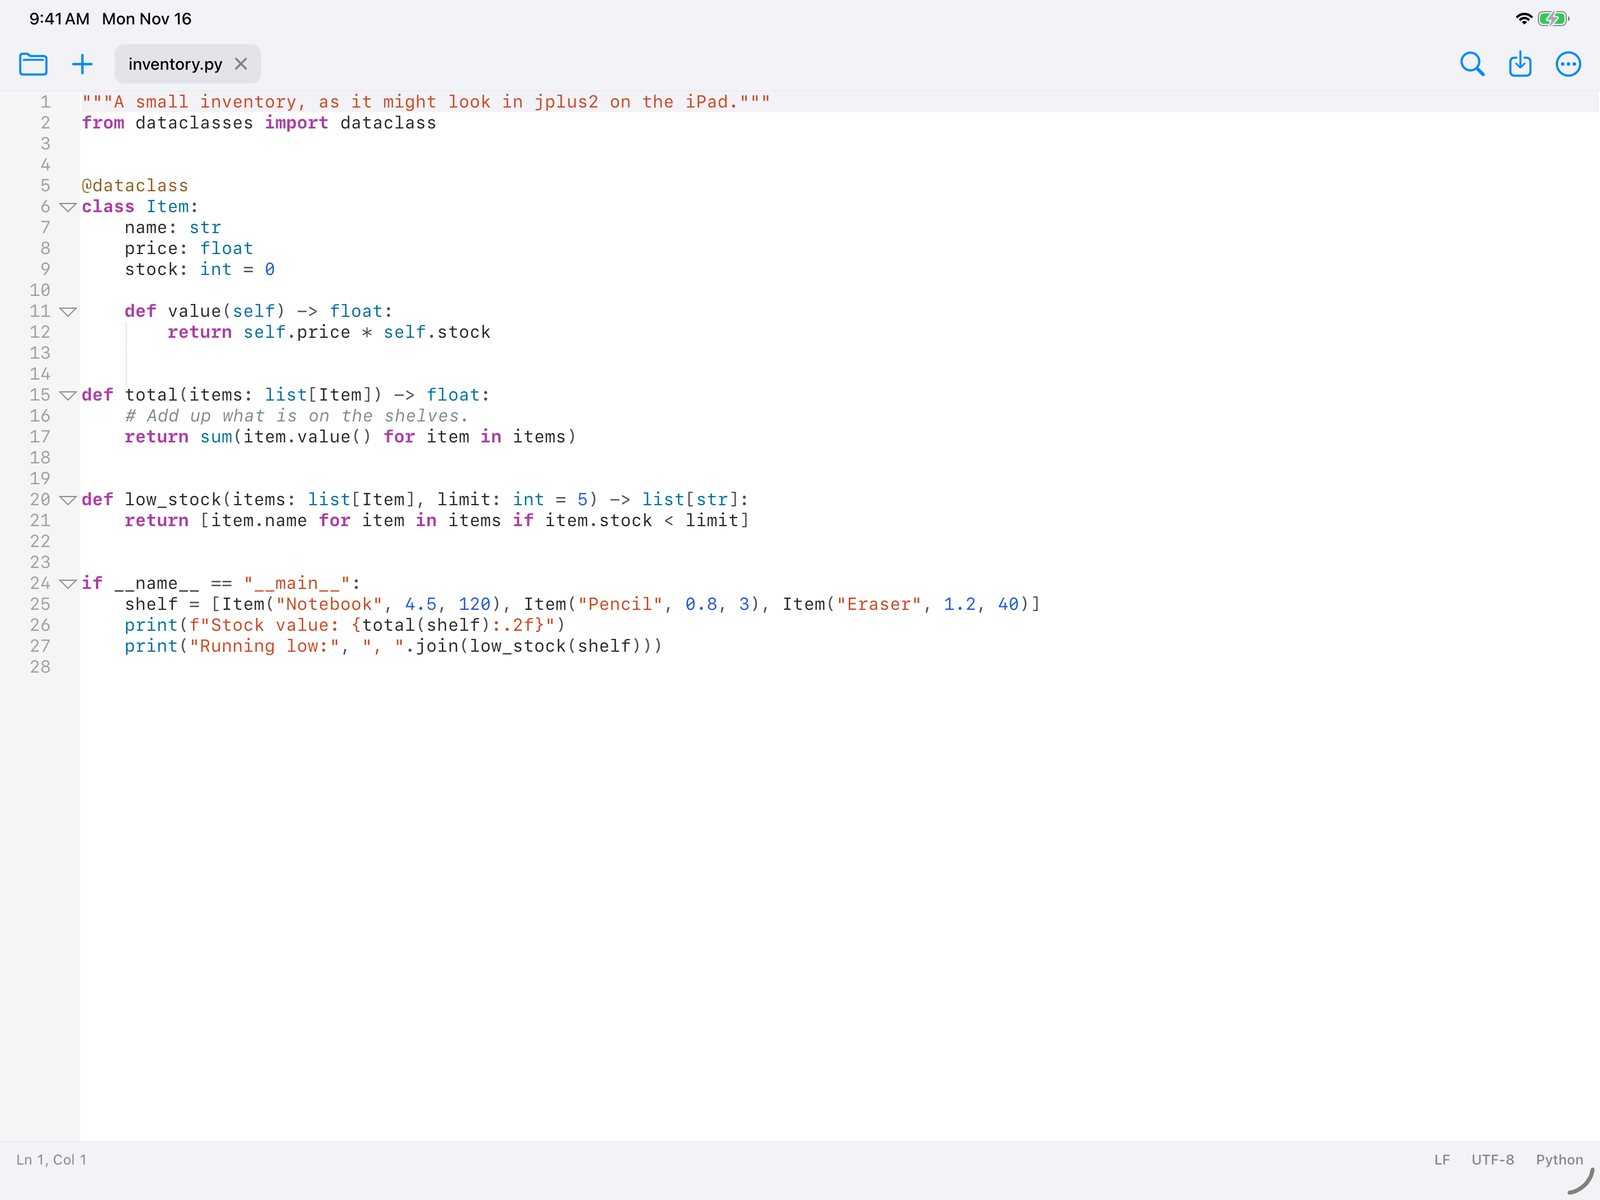
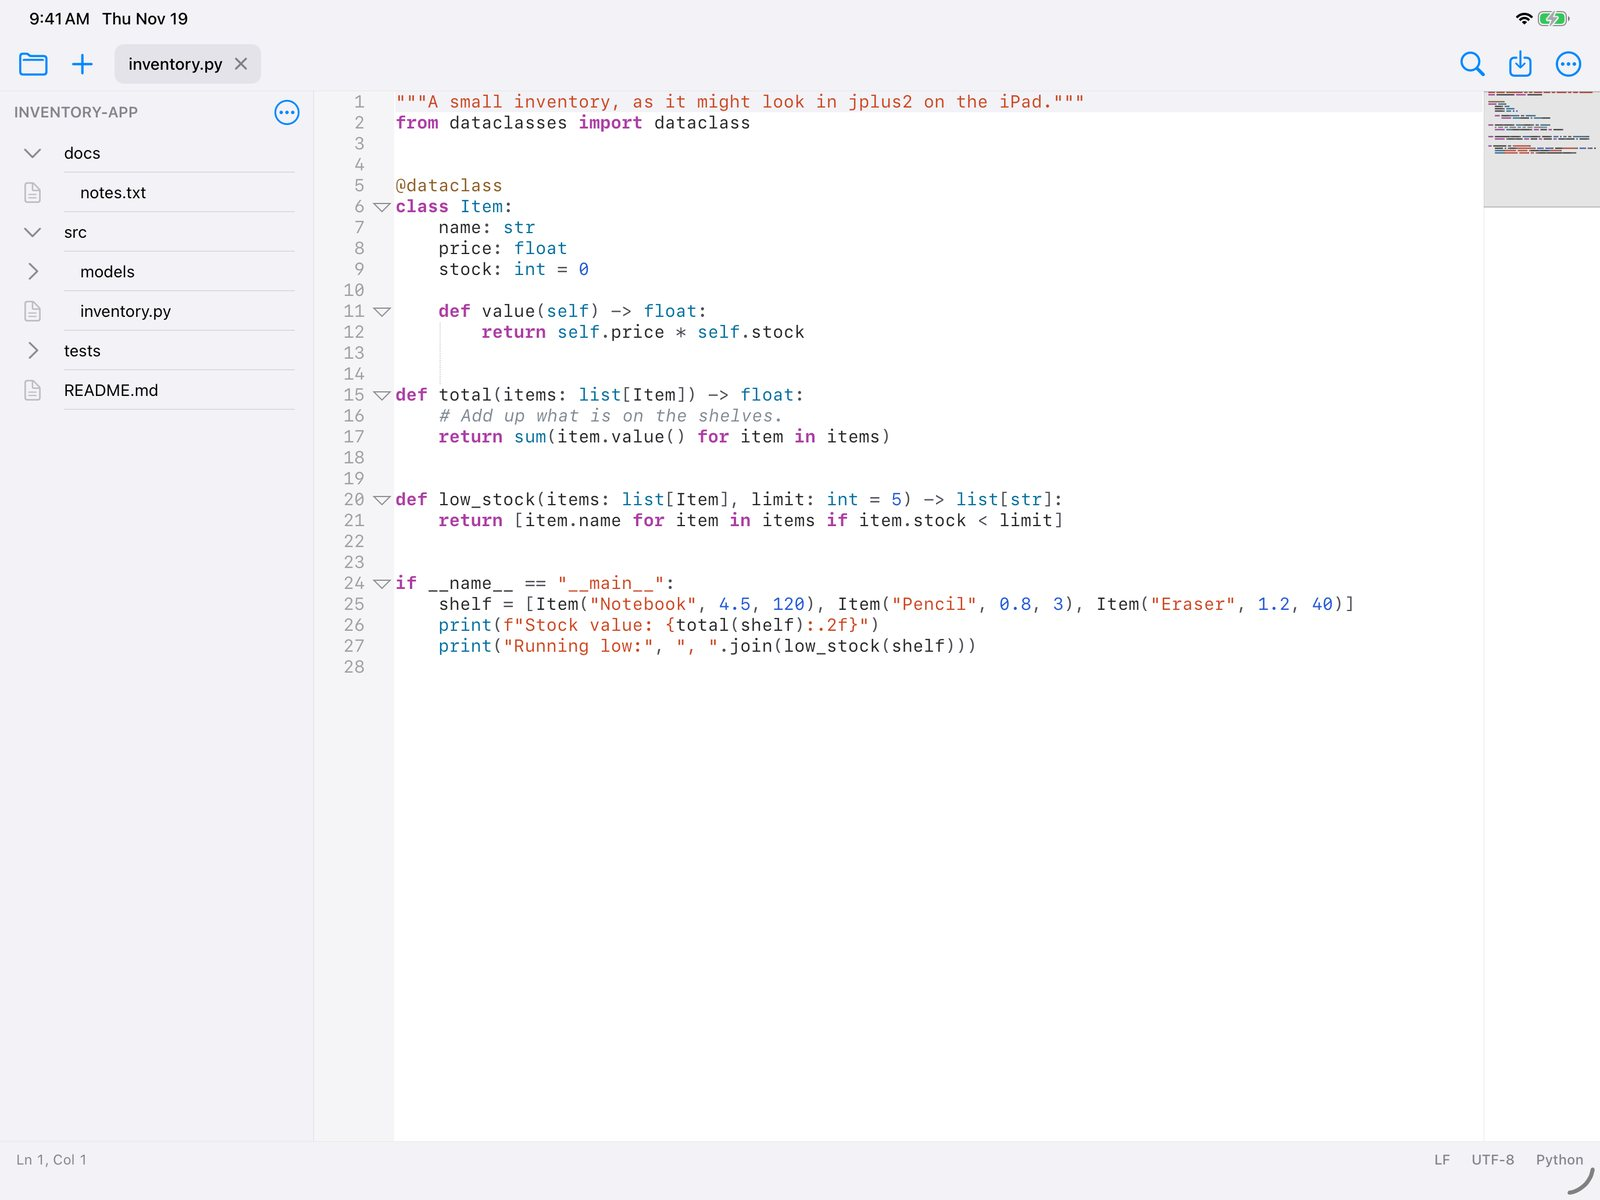
iPadOS section: Explorer, Go to File, minimap, find in all tabs, column editing and saved macros now in the app; new landscape screenshots with the Explorer

diff --git a/es/index.html b/es/index.html
@@ -239,16 +239,16 @@
     <p class="lead reveal">La próxima versión lleva jplus2 al iPad: el motor de edición de jplus2 Lite, hecho de forma nativa para el tacto, el teclado y la app Archivos. Estas son las funciones que tendrá.</p>
     <p class="reveal"><span class="soon-badge">Próximamente</span></p>
     <p class="note reveal">Planeado para el próximo lanzamiento. Los detalles pueden cambiar antes de publicarlo.</p>
-    <div class="ipad-shot reveal"><picture><source srcset="../img/ipad-dark.webp" type="image/webp" media="(prefers-color-scheme: dark)"><source srcset="../img/ipad-dark.jpg" media="(prefers-color-scheme: dark)"><source srcset="../img/ipad-light.webp" type="image/webp"><img class="shot " src="../img/ipad-light.jpg" alt="jplus2 en iPad en horizontal: un archivo de Python con colores de sintaxis abierto en una pestaña, con los botones Buscar, Guardar y Más en la barra." width="1600" height="1200" loading="lazy" decoding="async"></picture></div>
+    <div class="ipad-shot reveal"><picture><source srcset="../img/ipad-dark.webp" type="image/webp" media="(prefers-color-scheme: dark)"><source srcset="../img/ipad-dark.jpg" media="(prefers-color-scheme: dark)"><source srcset="../img/ipad-light.webp" type="image/webp"><img class="shot " src="../img/ipad-light.jpg" alt="jplus2 en iPad en horizontal: el explorador lateral con las carpetas de un proyecto, un archivo de Python con colores de sintaxis en una pestaña y el minimapa a la derecha." width="1600" height="1200" loading="lazy" decoding="async"></picture></div>
     <div class="tiles">
       <article class="tile reveal"><h3>Pestañas que recuerdan</h3><p>Abre varios archivos en pestañas. Al volver, cada pestaña sigue ahí, incluso el texto que no habías guardado.</p></article>
-      <article class="tile reveal"><h3>Buscar y reemplazar</h3><p>Búsqueda normal o con expresiones regulares, distinguir mayúsculas, palabra completa y Reemplazar todo, con cada coincidencia marcada.</p></article>
-      <article class="tile reveal"><h3>Edita más rápido</h3><p>Duplicar, mover, unir y borrar líneas, cambiar mayúsculas, comentar, sangrar, marcadores, seleccionar la siguiente coincidencia y grabar una macro.</p></article>
+      <article class="tile reveal"><h3>Buscar y reemplazar</h3><p>Búsqueda normal o con expresiones regulares, distinguir mayúsculas, palabra completa y Reemplazar todo, en la pestaña actual o en todas las abiertas.</p></article>
+      <article class="tile reveal"><h3>Edita más rápido</h3><p>Duplicar, mover, unir y borrar líneas, cambiar mayúsculas, comentar, sangrar, marcadores, edición por columnas y macros que puedes guardar con nombre.</p></article>
+      <article class="tile reveal"><h3>Explorador, Ir a archivo y minimapa</h3><p>Abre una carpeta y míralo como árbol, salta a cualquier archivo con unas letras (nombre:42 lo abre en la línea 42) y desplázate con un minimapa de todo el archivo.</p></article>
       <article class="tile reveal"><h3>Paleta de comandos</h3><p>Escribe unas letras para ejecutar cualquier comando, ir a una línea o comparar dos pestañas como diff.</p></article>
-      <article class="tile reveal"><h3>Funciona con Archivos</h3><p>Abre archivos de la app Archivos y edítalos donde están, con UTF-8, UTF-16 y ANSI, y saltos de línea de Windows, Unix o Mac clásico.</p></article>
-      <article class="tile reveal"><h3>Hecho para iPad</h3><p>Vertical y horizontal, claro y oscuro según el sistema, ajuste de línea, números de línea, tamaño de texto cambiable, barra de menús con atajos de teclado e impresión.</p></article>
+      <article class="tile reveal"><h3>Hecho para iPad</h3><p>App Archivos, 16 codificaciones, saltos de línea de Windows, Unix o Mac clásico, vertical y horizontal, claro y oscuro, ajuste de línea, tamaño de texto, barra de menús con atajos de teclado e impresión.</p></article>
     </div>
-    <p class="note reveal">Es la parte de edición de jplus2. El explorador lateral, el minimapa y las herramientas de la versión completa (asistente de IA, ejecutar código, SQL, GitHub) aún no están prometidos para iPadOS.</p>
+    <p class="note reveal">Es la parte de edición de jplus2. Las herramientas de la versión completa (asistente de IA, ejecutar código, SQL, GitHub) aún no están prometidas para iPadOS.</p>
   </div>
 </section>
 

diff --git a/index.html b/index.html
@@ -240,16 +240,16 @@
     <p class="lead reveal">The next release brings jplus2 to the iPad: the editing engine of jplus2 Lite, built natively for touch, keyboard and the Files app. These are the features it will have.</p>
     <p class="reveal"><span class="soon-badge">Coming soon</span></p>
     <p class="note reveal">Planned for the next release. Details may change before it is published.</p>
-    <div class="ipad-shot reveal"><picture><source srcset="img/ipad-dark.webp" type="image/webp" media="(prefers-color-scheme: dark)"><source srcset="img/ipad-dark.jpg" media="(prefers-color-scheme: dark)"><source srcset="img/ipad-light.webp" type="image/webp"><img class="shot " src="img/ipad-light.jpg" alt="jplus2 on iPad in landscape: a Python file with syntax colouring open in a tab, with the Find, Save and More buttons on the toolbar." width="1600" height="1200" loading="lazy" decoding="async"></picture></div>
+    <div class="ipad-shot reveal"><picture><source srcset="img/ipad-dark.webp" type="image/webp" media="(prefers-color-scheme: dark)"><source srcset="img/ipad-dark.jpg" media="(prefers-color-scheme: dark)"><source srcset="img/ipad-light.webp" type="image/webp"><img class="shot " src="img/ipad-light.jpg" alt="jplus2 on iPad in landscape: the Explorer sidebar with a project&#x27;s folders, a Python file with syntax colouring in a tab, and the minimap on the right." width="1600" height="1200" loading="lazy" decoding="async"></picture></div>
     <div class="tiles">
       <article class="tile reveal"><h3>Tabs that remember</h3><p>Open several files in tabs. When you come back, every tab is there, even text you had not saved.</p></article>
-      <article class="tile reveal"><h3>Find and replace</h3><p>Normal or regular-expression search, match case, whole word and Replace All, with every match marked.</p></article>
-      <article class="tile reveal"><h3>Edit faster</h3><p>Duplicate, move, join and delete lines, change case, comment, indent, bookmarks, select the next occurrence and record a macro.</p></article>
+      <article class="tile reveal"><h3>Find and replace</h3><p>Normal or regular-expression search, match case, whole word and Replace All, in the current tab or in every open tab.</p></article>
+      <article class="tile reveal"><h3>Edit faster</h3><p>Duplicate, move, join and delete lines, change case, comment, indent, bookmarks, column editing, and macros you can save by name.</p></article>
+      <article class="tile reveal"><h3>Explorer, Go to File and minimap</h3><p>Open a folder and see it as a tree, jump to any file from a few letters (name:42 opens it at line 42), and scroll with a minimap of the whole file.</p></article>
       <article class="tile reveal"><h3>Command palette</h3><p>Type a few letters to run any command, jump to a line, or compare two tabs as a diff.</p></article>
-      <article class="tile reveal"><h3>Works with Files</h3><p>Open files from the Files app and edit them where they are, with UTF-8, UTF-16 and ANSI, and Windows, Unix or classic Mac line endings.</p></article>
-      <article class="tile reveal"><h3>Made for iPad</h3><p>Portrait and landscape, light and dark that follow the system, word wrap, line numbers, text size you can change, a menu bar with keyboard shortcuts, and printing.</p></article>
+      <article class="tile reveal"><h3>Made for iPad</h3><p>Files app, 16 encodings, Windows, Unix or classic Mac line endings, portrait and landscape, light and dark, word wrap, text size, a menu bar with keyboard shortcuts, and printing.</p></article>
     </div>
-    <p class="note reveal">It is the editing part of jplus2. The Explorer sidebar, the minimap and the tools of the full version (AI assistant, running code, SQL, GitHub) are not promised for iPadOS yet.</p>
+    <p class="note reveal">It is the editing part of jplus2. The tools of the full version (AI assistant, running code, SQL, GitHub) are not promised for iPadOS yet.</p>
   </div>
 </section>
 
